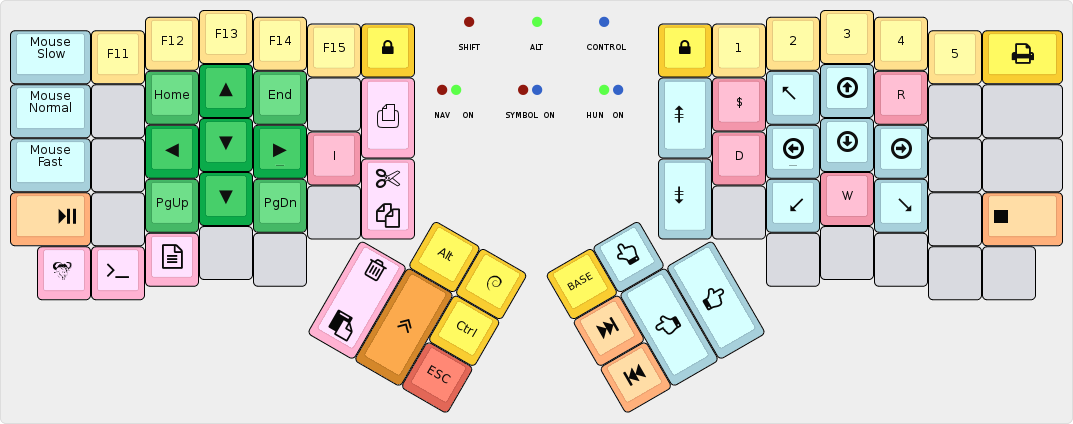
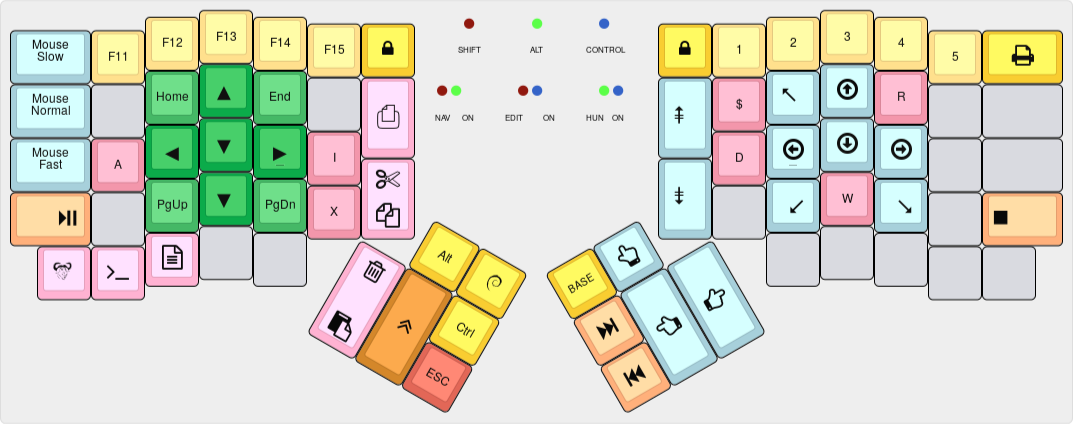
Drop the SYMBOL layer
The layer was mostly unused, except for the function keys, and the
lambda & shruggie, which will have to find a new place somewhere else.

Fixes #9.

diff --git a/keymap.c b/keymap.c
@@ -15,9 +15,8 @@
 #define BASE    0 // default layer
 #define APPSEL  1 // application select layer
 #define HUN     2 // Hungarian layer
-#define SYMB    3 // symbols layer
-#define NAV     4 // navigation layer
-#define EDIT    5 // Edit overlay for the NAV layer
+#define NAV     3 // navigation layer
+#define EDIT    4 // Edit overlay for the NAV layer
 
 /* Macros */
 
@@ -100,7 +99,7 @@ const uint16_t PROGMEM keymaps[][MATRIX_ROWS][MATRIX_COLS] = {
  *     |  M-m  | Home | PgUp | PgDn | End  |                                       | Left |  Up  | Down | Right|Unicode|
  *     `-----------------------------------'                                       `-----------------------------------'
  *                                         ,-------------.           ,-------------.
- *                                         | LAlt | GUI  |           | Media| SYM  |
+ *                                         | LAlt | GUI  |           | Media|      |
  *                                  ,------|------|------|           |------+------+------.
  *                                  |      |      | Ctrl |           |  HUN |      |      |
  *                                  |Backsp|LShift|------|           |------| Enter| Space|
@@ -126,7 +125,7 @@ const uint16_t PROGMEM keymaps[][MATRIX_ROWS][MATRIX_COLS] = {
                                                                ,KC_RPRN ,KC_B   ,KC_M   ,KC_W   ,KC_V        ,KC_Z        ,KC_MSTP
                                                                                 ,KC_LEFT,KC_UP  ,KC_DOWN     ,KC_RGHT     ,M(A_UNIC)
 
-                                                               ,KC_FN3  ,KC_FN2
+                                                               ,KC_FN3  ,KC_NO
                                                                ,KC_FN4
                                                                ,KC_ESC  ,KC_ENT ,KC_SPC
     ),
@@ -224,54 +223,12 @@ const uint16_t PROGMEM keymaps[][MATRIX_ROWS][MATRIX_COLS] = {
                                                                ,KC_TRNS ,KC_TRNS  ,KC_TRNS
     ),
 
-/* Keymap 4: Symbol Layer
+/* Keymap 3: Navigation layer
  *
  * ,-----------------------------------------------------.           ,-----------------------------------------------------.
- * |     F1    |   1  |   2  |   3  |   4  |   5  |      |           |      |   6  |   7  |   8  |   9  |   0  |    F6     |
+ * | MS Slow   |  F1  |  F2  |  F3  |  F4  |  F5  |ScrLCK|           |ScrLCK|  F6  |  F7  |  F8  |  F9  | F10  |    F11    |
  * |-----------+------+------+------+------+-------------|           |------+------+------+------+------+------+-----------|
- * |     F2    |   !  |   @  |   {  |   }  |   &  |  <   |           |  >   |   |  |   4  |   5  |   6  |   *  |    F7     |
- * |-----------+------+------+------+------+------|      |           |      |------+------+------+------+------+-----------|
- * |     F3    |   #  |   $  |   (  |   )  |   `  |------|           |------|   /  |   1  |   2  |   3  |   -  |    F8     |
- * |-----------+------+------+------+------+------| Tab  |           |  Tab |------+------+------+------+------+-----------|
- * |     F4    |   %  |   ^  |   [  |   ]  |   ~  |      |           |      |   \  |   0  |   .  |   =  |   +  |    F9     |
- * `-----------+------+------+------+------+-------------'           `------------+------+------+------+------+------------'
- *      |  F5  |      |      |      |      |                                       |      |      |      |      |  F10 |
- *      `----------------------------------'                                       `----------------------------------'
- *                                         ,-------------.           ,-------------.
- *                                         |      |      |           |  λ   |UNLOCK|
- *                                  ,------|------|------|           |------+------+------.
- *                                  |      |      |      |           | SHRUG|      |      |
- *                                  |      |      |------|           |------|      |      |
- *                                  |      |      |      |           |      |      |      |
- *                                  `--------------------'           `--------------------'
- */
-[SYMB] = KEYMAP(
-// left hand
- KC_F1       ,KC_1    ,KC_2    ,KC_3    ,KC_4    ,KC_5    ,KC_TRNS
-,KC_F2       ,KC_EXLM ,KC_AT   ,KC_LCBR ,KC_RCBR ,KC_AMPR ,LSFT(KC_COMM)
-,KC_F3       ,KC_HASH ,KC_DLR  ,KC_LPRN ,KC_RPRN ,KC_GRV
-,KC_F4       ,KC_PERC ,KC_CIRC ,KC_LBRC ,KC_RBRC ,KC_TILD ,KC_TAB
-,KC_F5       ,KC_TRNS ,KC_TRNS ,KC_TRNS ,KC_TRNS
-                                                 ,KC_TRNS ,KC_TRNS
-                                                          ,KC_TRNS
-                                        ,KC_TRNS ,KC_TRNS ,KC_TRNS
-                                                                    // right hand
-                                                                    ,KC_TRNS     ,KC_6    ,KC_7   ,KC_8   ,KC_9   ,KC_0    ,KC_F6
-                                                                    ,LSFT(KC_DOT),KC_PIPE ,KC_4   ,KC_5   ,KC_6   ,KC_ASTR ,KC_F7
-                                                                                 ,KC_SLSH ,KC_1   ,KC_2   ,KC_3   ,KC_MINS ,KC_F8
-                                                                    ,KC_TAB      ,KC_BSLS ,KC_0   ,KC_DOT ,KC_EQL ,KC_PLUS ,KC_F9
-                                                                                          ,KC_TRNS,KC_TRNS,KC_TRNS,KC_TRNS ,KC_F10
-                                                                    ,M(AU_LMBD)  ,KC_FN1
-                                                                    ,M(AU_SHRG)
-                                                                    ,KC_TRNS ,KC_TRNS ,KC_TRNS
-    ),
-
-/* Keymap 4: Navigation layer
- *
- * ,-----------------------------------------------------.           ,-----------------------------------------------------.
- * | MS Slow   | F11  | F12  | F13  | F14  | F15  |ScrLCK|           |ScrLCK| F16  | F17  | F18  | F19  | F20  |PrintScreen|
- * |-----------+------+------+------+------+-------------|           |------+------+------+------+------+------+-----------|
- * | MS Normal |      | Home |  Up  | End  |      |Visual|           |Scroll|Vol Up|MsUpL | MsUp |MsUpR |      |           |
+ * | MS Normal |      | Home |  Up  | End  |      |Visual|           |Scroll|Vol Up|MsUpL | MsUp |MsUpR |      |PrintScreen|
  * |-----------+------+------+------+------+------| Mode |           |  Up  |------+------+------+------+------+-----------|
  * | MS Fast   |      | Left | Down | Right|      |------|           |------|Vol Dn|MsLeft| MsDn |MsRght|      |           |
  * |-----------+------+------+------+------+------| Cut  |           |Scroll|------+------+------+------+------+-----------|
@@ -289,7 +246,7 @@ const uint16_t PROGMEM keymaps[][MATRIX_ROWS][MATRIX_COLS] = {
  */
 [NAV] = KEYMAP(
 // left hand
- KC_ACL0    ,KC_F11      ,KC_F12     ,KC_F13  ,KC_F14  ,KC_F15  ,LGUI(KC_L)
+ KC_ACL0    ,KC_F1       ,KC_F2      ,KC_F3   ,KC_F4   ,KC_F5   ,LGUI(KC_L)
 ,KC_ACL1    ,KC_NO       ,KC_HOME    ,KC_UP   ,KC_END  ,KC_NO   ,M(AE_VIS)
 ,KC_ACL2    ,KC_NO       ,KC_LEFT    ,KC_DOWN ,KC_RIGHT,KC_NO
 ,KC_MPLY    ,KC_NO       ,KC_PGUP    ,KC_DOWN ,KC_PGDN ,KC_NO   ,M(AE_CPYC)
@@ -298,8 +255,8 @@ const uint16_t PROGMEM keymaps[][MATRIX_ROWS][MATRIX_COLS] = {
                                                                  ,KC_TRNS
                                            ,M(AE_PSTDEL),KC_TRNS ,KC_TRNS
                                                                      // right hand
-                                                                     ,LGUI(KC_L),KC_F16  ,KC_F17  ,KC_F18  ,KC_F19  ,KC_F20  ,KC_PSCR
-                                                                     ,KC_WH_U   ,KC_VOLU ,M(A_MUL),KC_MS_U ,M(A_MUR),KC_NO   ,KC_NO
+                                                                     ,LGUI(KC_L),KC_F6   ,KC_F7   ,KC_F8   ,KC_F9   ,KC_F10  ,KC_F11
+                                                                     ,KC_WH_U   ,KC_VOLU ,M(A_MUL),KC_MS_U ,M(A_MUR),KC_NO   ,KC_PSCR
                                                                                 ,KC_VOLD ,KC_MS_L ,KC_MS_D ,KC_MS_R ,KC_NO   ,KC_NO
                                                                      ,KC_WH_D   ,KC_MUTE ,M(A_MDL),KC_MS_D ,M(A_MDR),KC_NO   ,KC_MSTP
                                                                                          ,KC_NO   ,KC_NO   ,KC_NO   ,KC_NO   ,KC_NO
@@ -308,7 +265,7 @@ const uint16_t PROGMEM keymaps[][MATRIX_ROWS][MATRIX_COLS] = {
                                                                      ,KC_MNXT   ,KC_BTN1 ,KC_BTN2
     ),
 
-/* Keymap 5: Edit overlay for NAV
+/* Keymap 4: Edit overlay for NAV
  *
  * ,-----------------------------------------------------.           ,-----------------------------------------------------.
  * |           |      |      |      |      |      |      |           |      |   1  |   2  |   3  |   4  |   5  |           |
@@ -358,7 +315,6 @@ const uint16_t PROGMEM keymaps[][MATRIX_ROWS][MATRIX_COLS] = {
 
 const uint16_t PROGMEM fn_actions[] = {
    [1] = ACTION_LAYER_CLEAR(ON_PRESS)           // FN1 - clear to base layer
-  ,[2] = ACTION_LAYER_INVERT(SYMB, ON_PRESS)    // FN2 - toggle to Symbols on press
   ,[3] = ACTION_LAYER_INVERT(NAV, ON_PRESS)     // FN3 - toggle to Media on press
   ,[4] = ACTION_LAYER_INVERT(HUN, ON_PRESS)     // FN4 - toggle to Hungarian on press
   ,[5] = ACTION_LAYER_INVERT(EDIT, ON_PRESS)    // FN5 - Edit overlay
@@ -802,10 +758,10 @@ void matrix_scan_user(void) {
     if (layer == HUN) {
       ergodox_right_led_2_on();
       ergodox_right_led_3_on();
-    } else if (layer == SYMB) {
+    } else if (layer == EDIT) {
       ergodox_right_led_1_on();
       ergodox_right_led_3_on();
-    } else if (layer == NAV || layer == EDIT) {
+    } else if (layer == NAV) {
       ergodox_right_led_1_on();
       ergodox_right_led_2_on();
     } else {

diff --git a/README.md b/README.md
@@ -52,17 +52,6 @@ same finger have the same color. But that is just a guide, because the thumb
 cluster has many colors, all pressed by the same digit. Functionality is the
 other guide, for most special keys.
 
-## Symbols layer
-
-[![Symbols layer](images/symbol-layer.png)](http://www.keyboard-layout-editor.com/#/gists/dad30ce9d478a336d3513b560b790930)
-
-The symbol layer is a bit more conventional, and retains most of the special
-keys in the same position as in the base layer. As an addition, function keys
-appear on the sides, and the two other layer toggles turn into a `λ` and a
-shruggie sequence, for various reasons.
-
-The key colors were done the same way as in the base layer.
-
 ## Navigation layer
 
 [![Navigation layer](images/nav-layer.png)](http://www.keyboard-layout-editor.com/#/gists/e4556d8dc59736c26d51a58cb4c4d2f0)
@@ -85,7 +74,7 @@ The copy/paste stuff needs some explanation: there are three modes of operation:
   Tapped, it pastes, held longer, it deletes. In `Emacs` mode, this sends `p`
   (or `]p` if `Shift` is also down) or `d`, respectively. In `Terminal` mode, it
   sends `C-S-v` or `DEL`. In `Other` mode, `C-v` or `DEL`.
-  
+
 Tapping the key that enabled this layer will bring us further, to the `Edit layer`:
 
 ## Edit Layer
@@ -97,7 +86,7 @@ improve the navigational experience: a `d` key for deleting, `$` and `w` and a
 short number row to aid the delete; and an `i` and `r` for INSERT and OVERWRITE
 modes, respectively. These last two also take us back to the base layer, just
 like tapping the layer switch button.
- 
+
 ## Hungarian layer
 
 [![Hungarian layer](images/hun-layer.png)](http://www.keyboard-layout-editor.com/#/gists/b160f6ec90d58c127c114c89f66e9dc9)
